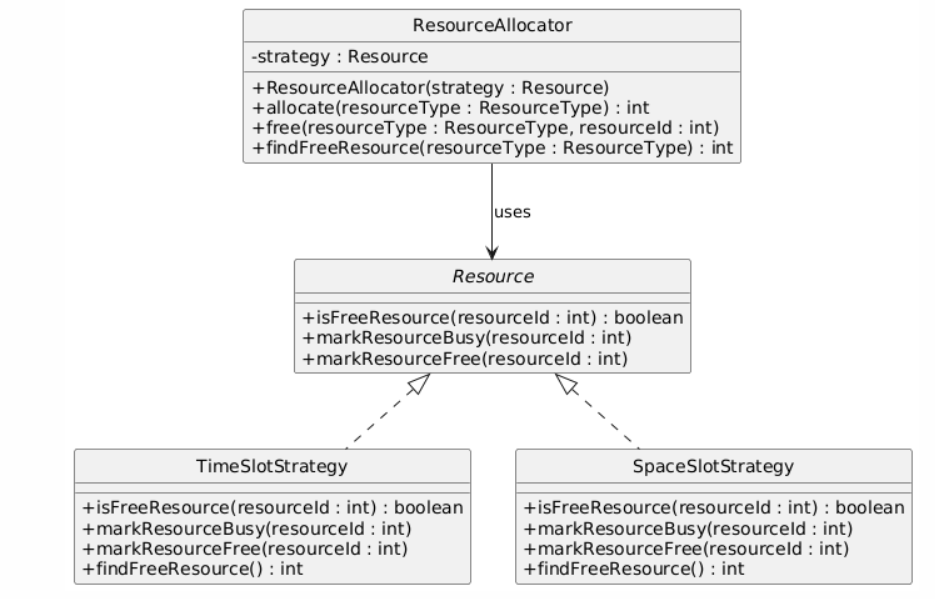
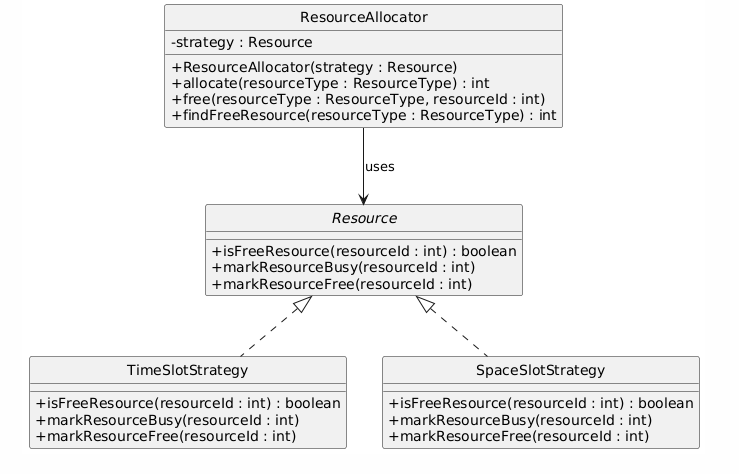
OCP DONE 2

diff --git a/OCP/src/com/directi/training/ocp/Corr_Exercice/ResourceAllocator.java b/OCP/src/com/directi/training/ocp/Corr_Exercice/ResourceAllocator.java
@@ -1,11 +1,9 @@
-    package com.directi.training.ocp.exercise_refactored;
 
-import java.util.Map;
 import java.util.HashMap;
+import java.util.Map;
 
 public class ResourceAllocator {
-    private static final int INVALID_RESOURCE_ID = -1;
-    private Map<ResourceType, ResourceStrategy> strategies;
+    private Map<ResourceType, Resource> strategies;
 
     public ResourceAllocator() {
         strategies = new HashMap<>();
@@ -14,22 +12,32 @@ public class ResourceAllocator {
     }
 
     public int allocate(ResourceType resourceType) {
-        ResourceStrategy strategy = strategies.get(resourceType);
+        Resource strategy = strategies.get(resourceType);
         if (strategy == null) {
             System.out.println("ERROR: Attempted to allocate invalid resource");
             return INVALID_RESOURCE_ID;
         }
         int resourceId = strategy.findFreeResource();
-        strategy.markResourceBusy(resourceId);
-        return resourceId;
+        if (strategy.isFreeResource(resourceId)) {
+            strategy.markResourceBusy(resourceId);
+            return resourceId;
+        }
+        return INVALID_RESOURCE_ID;
     }
 
     public void free(ResourceType resourceType, int resourceId) {
-        ResourceStrategy strategy = strategies.get(resourceType);
-        if (strategy == null) {
+        Resource strategy = strategies.get(resourceType);
+        if (strategy != null) {
+            strategy.markResourceFree(resourceId);
+        } else {
             System.out.println("ERROR: Attempted to free invalid resource");
-            return;
         }
-        strategy.markResourceFree(resourceId);
     }
+
+    public int findFreeResource(ResourceType resourceType) {
+        Resource strategy = strategies.get(resourceType);
+        return strategy != null ? strategy.findFreeResource() : INVALID_RESOURCE_ID;
+    }
+
+    private static final int INVALID_RESOURCE_ID = -1;
 }

diff --git a/OCP/src/com/directi/training/ocp/Corr_Exercice/SpaceSlotStrategy.java b/OCP/src/com/directi/training/ocp/Corr_Exercice/SpaceSlotStrategy.java
@@ -1,19 +1,18 @@
-package com.directi.training.ocp.exercise_refactored;
-public class SpaceSlotStrategy implements ResourceStrategy {
+public class SpaceSlotStrategy implements Resource {
     @Override
-    public int markResourceBusy(int resourceId) {
-        // Logique pour marquer un espace comme occupé
-        return resourceId;
+    public boolean isFreeResource(int resourceId) {
+        // Implementation details to check if the space slot is free
+        return true; // Placeholder
+    }
+
+    @Override
+    public void markResourceBusy(int resourceId) {
+        // Mark the space slot as occupied
     }
 
     @Override
     public void markResourceFree(int resourceId) {
-        // Logique pour libérer un espace
+        // Mark the space slot as free
     }
 
-    @Override
-    public int findFreeResource() {
-        // Trouver un espace libre
-        return 0;  // Supposons que 0 est un ID valide pour la démonstration
-    }
 }

diff --git a/OCP/src/com/directi/training/ocp/Corr_Exercice/TimeSlotStrategy.java b/OCP/src/com/directi/training/ocp/Corr_Exercice/TimeSlotStrategy.java
@@ -1,18 +1,17 @@
-public class TimeSlotStrategy implements ResourceStrategy {
+public class TimeSlotStrategy implements Resource {
     @Override
-    public int markResourceBusy(int resourceId) {
-        // Logique pour marquer un créneau horaire comme occupé
-        return resourceId;
+    public boolean isFreeResource(int resourceId) {
+        // Implementation details to check if the time slot is free
+        return true; // Placeholder
+    }
+
+    @Override
+    public void markResourceBusy(int resourceId) {
+        // Mark the time slot as occupied
     }
 
     @Override
     public void markResourceFree(int resourceId) {
-        // Logique pour libérer un créneau horaire
-    }
-
-    @Override
-    public int findFreeResource() {
-        // Trouver un créneau horaire libre
-        return 0;  // Supposons que 0 est un ID valide pour la démonstration
+        // Mark the time slot as free
     }
 }

diff --git a/OCP/src/com/directi/training/ocp/Corr_Exercice/Resource.java b/OCP/src/com/directi/training/ocp/Corr_Exercice/Resource.java
@@ -1,0 +1,7 @@
+package com.directi.training.ocp.exercise_refactored;
+
+public interface Resource {
+    boolean isFreeResource(int resourceId);
+    void markResourceBusy(int resourceId);
+    void markResourceFree(int resourceId);
+}
